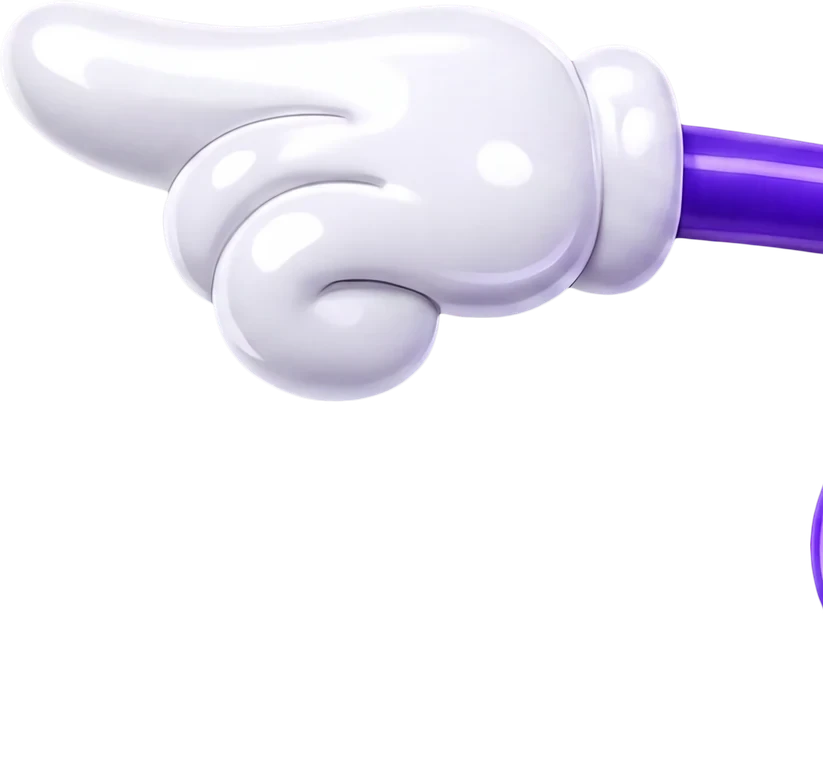
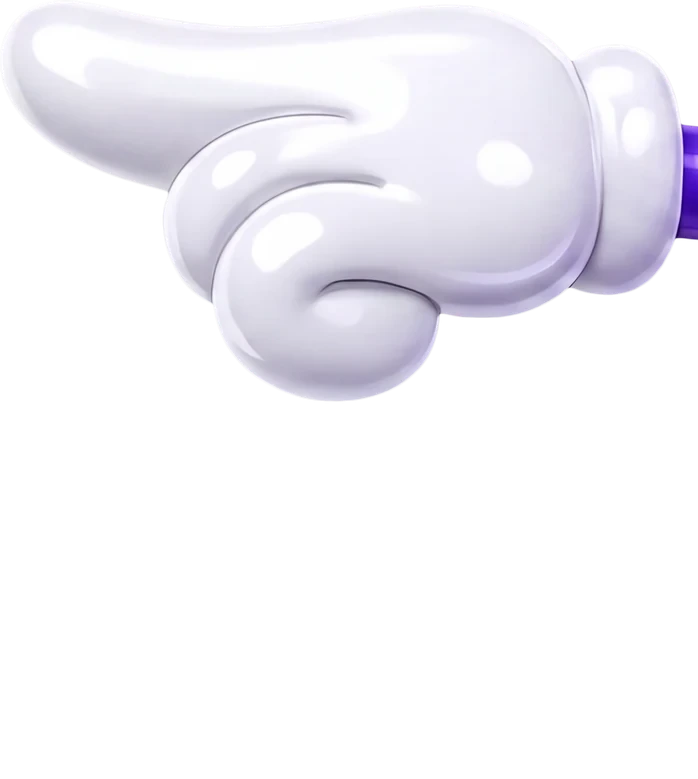
Ostry web: rucicka se otaci presne v napojeni na katetr
Claude-Session: https://claude.ai/code/session_01AjQ1eWizXtT6SLsavyevRy

Changed region(s): [[0.0301, 0.0616, 1.0, 0.5237], [0.9628, 0.6162, 1.0, 0.801], [0.692, 0.0924, 0.7221, 0.1232]]

diff --git a/pexa-final/style-pexa.css b/pexa-final/style-pexa.css
@@ -204,7 +204,7 @@ body{overflow-x:hidden}
 
 
 /* ---------- „I'm interested" nad patičkou – jejich sekce na podkladu, ne ve fialovém bloku ---------- */
-.zajem{background:var(--ground); padding:clamp(60px,8vw,100px) 0 clamp(60px,9vw,120px)}   /* dole místo pro smyčku katetru */
+.zajem{background:var(--ground); padding:clamp(60px,8vw,100px) 0 clamp(40px,7vw,87px)}
 .zajem-grid{display:grid; gap:clamp(30px,5vw,44px)}
 @media (min-width:861px){ .zajem-grid{grid-template-columns:minmax(0,1fr); gap:0} }
 .zajem h2{margin:0; color:var(--violet); font-weight:500; letter-spacing:-.07em; line-height:.8;
@@ -213,20 +213,22 @@ body{overflow-x:hidden}
   font-weight:400; letter-spacing:0; line-height:1.5; font-size:clamp(16px,1.5vw,18px); max-width:52ch}
 .zajem .eyebrow{margin-bottom:clamp(16px,2vw,26px)}
 .zajem .ruka-cil{margin:clamp(28px,3.4vw,40px) 0 0; justify-self:start; position:relative}
-/* Vedle tlačítka vinutý katetr; render je rozdělený na dva obrázky, aby se hýbala jen ručička:
-   katetr leží staticky a ruka se přes něj otáčí kolem zápěstí, takže v napojení nevznikne mezera. */
+/* Vinutý katetr u tlačítka je rozdělený na dva obrázky: katetr leží staticky a hýbe se jen ručička.
+   Otáčí se přesně kolem středu zápěstí – změřeno z renderu (napojení x=682, y=182 z 2200×779),
+   proto transform-origin 97.71 % 23.36 % a jen ±4°, aby v napojení nevznikl viditelný zlom. */
 .zajem .katetr-box{position:absolute; left:calc(100% + 10px); top:50%;
   width:clamp(280px,36vw,560px); aspect-ratio:2200/779; transform:translate(60px,-40%); opacity:0;
   transition:transform .7s cubic-bezier(.2,1.2,.3,1), opacity .4s; pointer-events:none}
 .zajem .katetr-box.tu{transform:translate(0,-40%); opacity:1}
-.zajem .katetr-box img{position:absolute; top:0; left:0; height:100%; width:auto; max-width:none; filter:none; opacity:1}
-.zajem .katetr-box .ruka{transform:none; transform-origin:76% 46%}   /* zápěstí – kolem něj se ruka otáčí; transform:none přebíjí obecné pravidlo .ruka-cil .ruka */
-.zajem .katetr-box .ruka.klik{animation:zajem-klik .55s cubic-bezier(.3,.9,.3,1.2)}
-.zajem .katetr-box .ruka.klik2{animation:zajem-klik2 1.1s cubic-bezier(.4,.05,.3,1)}
-@keyframes zajem-klik{0%{transform:rotate(0)} 40%{transform:rotate(-9deg)} 100%{transform:rotate(0)}}
-@keyframes zajem-klik2{0%{transform:rotate(0)} 25%{transform:rotate(-9deg)} 50%{transform:rotate(0)} 75%{transform:rotate(-9deg)} 100%{transform:rotate(0)}}
+.zajem .katetr-box img{position:absolute; top:0; left:0; height:100%; width:auto; max-width:none;
+  filter:none; opacity:1; transform:none}
+.zajem .katetr-box .ruka{transform-origin:97.71% 23.36%}
+.zajem .katetr-box .ruka.klik{animation:zajem-klik .6s cubic-bezier(.3,.9,.3,1.2)}
+.zajem .katetr-box .ruka.klik2{animation:zajem-klik2 1.2s cubic-bezier(.4,.05,.3,1)}
+@keyframes zajem-klik{0%{transform:rotate(0)} 45%{transform:rotate(-4deg)} 100%{transform:rotate(0)}}
+@keyframes zajem-klik2{0%{transform:rotate(0)} 25%{transform:rotate(-4deg)} 50%{transform:rotate(0)} 75%{transform:rotate(-4deg)} 100%{transform:rotate(0)}}
 @media (prefers-reduced-motion:reduce){ .zajem .katetr-box .ruka{animation:none} }
-@media (max-width:860px){ .zajem .katetr-box{display:none} }   /* na telefonu na katetr vedle tlačítka není místo */
+@media (max-width:860px){ .zajem .katetr-box{display:none} }
 
 .zajem .btn-lime{background:var(--violet); color:#fff}
 .zajem .btn-lime:hover{background:var(--violet-deep)}

diff --git a/style-pexa.css b/style-pexa.css
@@ -204,7 +204,7 @@ body{overflow-x:hidden}
 
 
 /* ---------- „I'm interested" nad patičkou – jejich sekce na podkladu, ne ve fialovém bloku ---------- */
-.zajem{background:var(--ground); padding:clamp(60px,8vw,100px) 0 clamp(60px,9vw,120px)}   /* dole místo pro smyčku katetru */
+.zajem{background:var(--ground); padding:clamp(60px,8vw,100px) 0 clamp(40px,7vw,87px)}
 .zajem-grid{display:grid; gap:clamp(30px,5vw,44px)}
 @media (min-width:861px){ .zajem-grid{grid-template-columns:minmax(0,1fr); gap:0} }
 .zajem h2{margin:0; color:var(--violet); font-weight:500; letter-spacing:-.07em; line-height:.8;
@@ -213,20 +213,22 @@ body{overflow-x:hidden}
   font-weight:400; letter-spacing:0; line-height:1.5; font-size:clamp(16px,1.5vw,18px); max-width:52ch}
 .zajem .eyebrow{margin-bottom:clamp(16px,2vw,26px)}
 .zajem .ruka-cil{margin:clamp(28px,3.4vw,40px) 0 0; justify-self:start; position:relative}
-/* Vedle tlačítka vinutý katetr; render je rozdělený na dva obrázky, aby se hýbala jen ručička:
-   katetr leží staticky a ruka se přes něj otáčí kolem zápěstí, takže v napojení nevznikne mezera. */
+/* Vinutý katetr u tlačítka je rozdělený na dva obrázky: katetr leží staticky a hýbe se jen ručička.
+   Otáčí se přesně kolem středu zápěstí – změřeno z renderu (napojení x=682, y=182 z 2200×779),
+   proto transform-origin 97.71 % 23.36 % a jen ±4°, aby v napojení nevznikl viditelný zlom. */
 .zajem .katetr-box{position:absolute; left:calc(100% + 10px); top:50%;
   width:clamp(280px,36vw,560px); aspect-ratio:2200/779; transform:translate(60px,-40%); opacity:0;
   transition:transform .7s cubic-bezier(.2,1.2,.3,1), opacity .4s; pointer-events:none}
 .zajem .katetr-box.tu{transform:translate(0,-40%); opacity:1}
-.zajem .katetr-box img{position:absolute; top:0; left:0; height:100%; width:auto; max-width:none; filter:none; opacity:1}
-.zajem .katetr-box .ruka{transform:none; transform-origin:76% 46%}   /* zápěstí – kolem něj se ruka otáčí; transform:none přebíjí obecné pravidlo .ruka-cil .ruka */
-.zajem .katetr-box .ruka.klik{animation:zajem-klik .55s cubic-bezier(.3,.9,.3,1.2)}
-.zajem .katetr-box .ruka.klik2{animation:zajem-klik2 1.1s cubic-bezier(.4,.05,.3,1)}
-@keyframes zajem-klik{0%{transform:rotate(0)} 40%{transform:rotate(-9deg)} 100%{transform:rotate(0)}}
-@keyframes zajem-klik2{0%{transform:rotate(0)} 25%{transform:rotate(-9deg)} 50%{transform:rotate(0)} 75%{transform:rotate(-9deg)} 100%{transform:rotate(0)}}
+.zajem .katetr-box img{position:absolute; top:0; left:0; height:100%; width:auto; max-width:none;
+  filter:none; opacity:1; transform:none}
+.zajem .katetr-box .ruka{transform-origin:97.71% 23.36%}
+.zajem .katetr-box .ruka.klik{animation:zajem-klik .6s cubic-bezier(.3,.9,.3,1.2)}
+.zajem .katetr-box .ruka.klik2{animation:zajem-klik2 1.2s cubic-bezier(.4,.05,.3,1)}
+@keyframes zajem-klik{0%{transform:rotate(0)} 45%{transform:rotate(-4deg)} 100%{transform:rotate(0)}}
+@keyframes zajem-klik2{0%{transform:rotate(0)} 25%{transform:rotate(-4deg)} 50%{transform:rotate(0)} 75%{transform:rotate(-4deg)} 100%{transform:rotate(0)}}
 @media (prefers-reduced-motion:reduce){ .zajem .katetr-box .ruka{animation:none} }
-@media (max-width:860px){ .zajem .katetr-box{display:none} }   /* na telefonu na katetr vedle tlačítka není místo */
+@media (max-width:860px){ .zajem .katetr-box{display:none} }
 
 .zajem .btn-lime{background:var(--violet); color:#fff}
 .zajem .btn-lime:hover{background:var(--violet-deep)}

diff --git a/index.html b/index.html
@@ -18,7 +18,7 @@
 <link href="https://fonts.googleapis.com/css2?family=DM+Sans:ital,wght@0,400;0,500;0,700;1,400&display=swap" rel="stylesheet">
 <link rel="stylesheet" href="fonts/safiro.css">
 <link rel="stylesheet" href="style.css?v=2026-09-08a">
-<link rel="stylesheet" href="style-pexa.css?v=74">
+<link rel="stylesheet" href="style-pexa.css?v=76">
 </head>
 <body>
 
@@ -380,7 +380,7 @@
     // 3D ruka u tlačítka v kontaktu (telefon, bez hadice): poprvé přijede a dvakrát ťukne, při dalším naskrolování a najetí ťukne jednou
     (function(){ var r=document.getElementById("rukaKontakt"), b=document.getElementById("registerBtn"); if(!r||!b) return;
       // katetr přijede jako celek (.tu na obalu), ťuká jen ručička (.klik na obrázku ruky)
-      var box=r.closest(".katetr-box")||r;
+      var box=r.closest(".katetr-box")||r;   // katetr-box už tu není, .tu jde přímo na ruku
       function klik(tr){ r.classList.remove("klik"); r.classList.remove("klik2"); void r.offsetWidth; r.classList.add(tr||"klik"); }
       if(matchMedia("(prefers-reduced-motion: reduce)").matches || !("IntersectionObserver" in window)){ box.classList.add("tu"); }
       else { var io=new IntersectionObserver(function(es){ es.forEach(function(e){ if(!e.isIntersecting) return;

diff --git a/pexa-final/index.html b/pexa-final/index.html
@@ -18,7 +18,7 @@
 <link href="https://fonts.googleapis.com/css2?family=DM+Sans:ital,wght@0,400;0,500;0,700;1,400&display=swap" rel="stylesheet">
 <link rel="stylesheet" href="fonts/safiro.css">
 <link rel="stylesheet" href="style.css?v=2026-09-08a">
-<link rel="stylesheet" href="style-pexa.css?v=74">
+<link rel="stylesheet" href="style-pexa.css?v=76">
 </head>
 <body>
 
@@ -380,7 +380,7 @@
     // 3D ruka u tlačítka v kontaktu (telefon, bez hadice): poprvé přijede a dvakrát ťukne, při dalším naskrolování a najetí ťukne jednou
     (function(){ var r=document.getElementById("rukaKontakt"), b=document.getElementById("registerBtn"); if(!r||!b) return;
       // katetr přijede jako celek (.tu na obalu), ťuká jen ručička (.klik na obrázku ruky)
-      var box=r.closest(".katetr-box")||r;
+      var box=r.closest(".katetr-box")||r;   // katetr-box už tu není, .tu jde přímo na ruku
       function klik(tr){ r.classList.remove("klik"); r.classList.remove("klik2"); void r.offsetWidth; r.classList.add(tr||"klik"); }
       if(matchMedia("(prefers-reduced-motion: reduce)").matches || !("IntersectionObserver" in window)){ box.classList.add("tu"); }
       else { var io=new IntersectionObserver(function(es){ es.forEach(function(e){ if(!e.isIntersecting) return;
